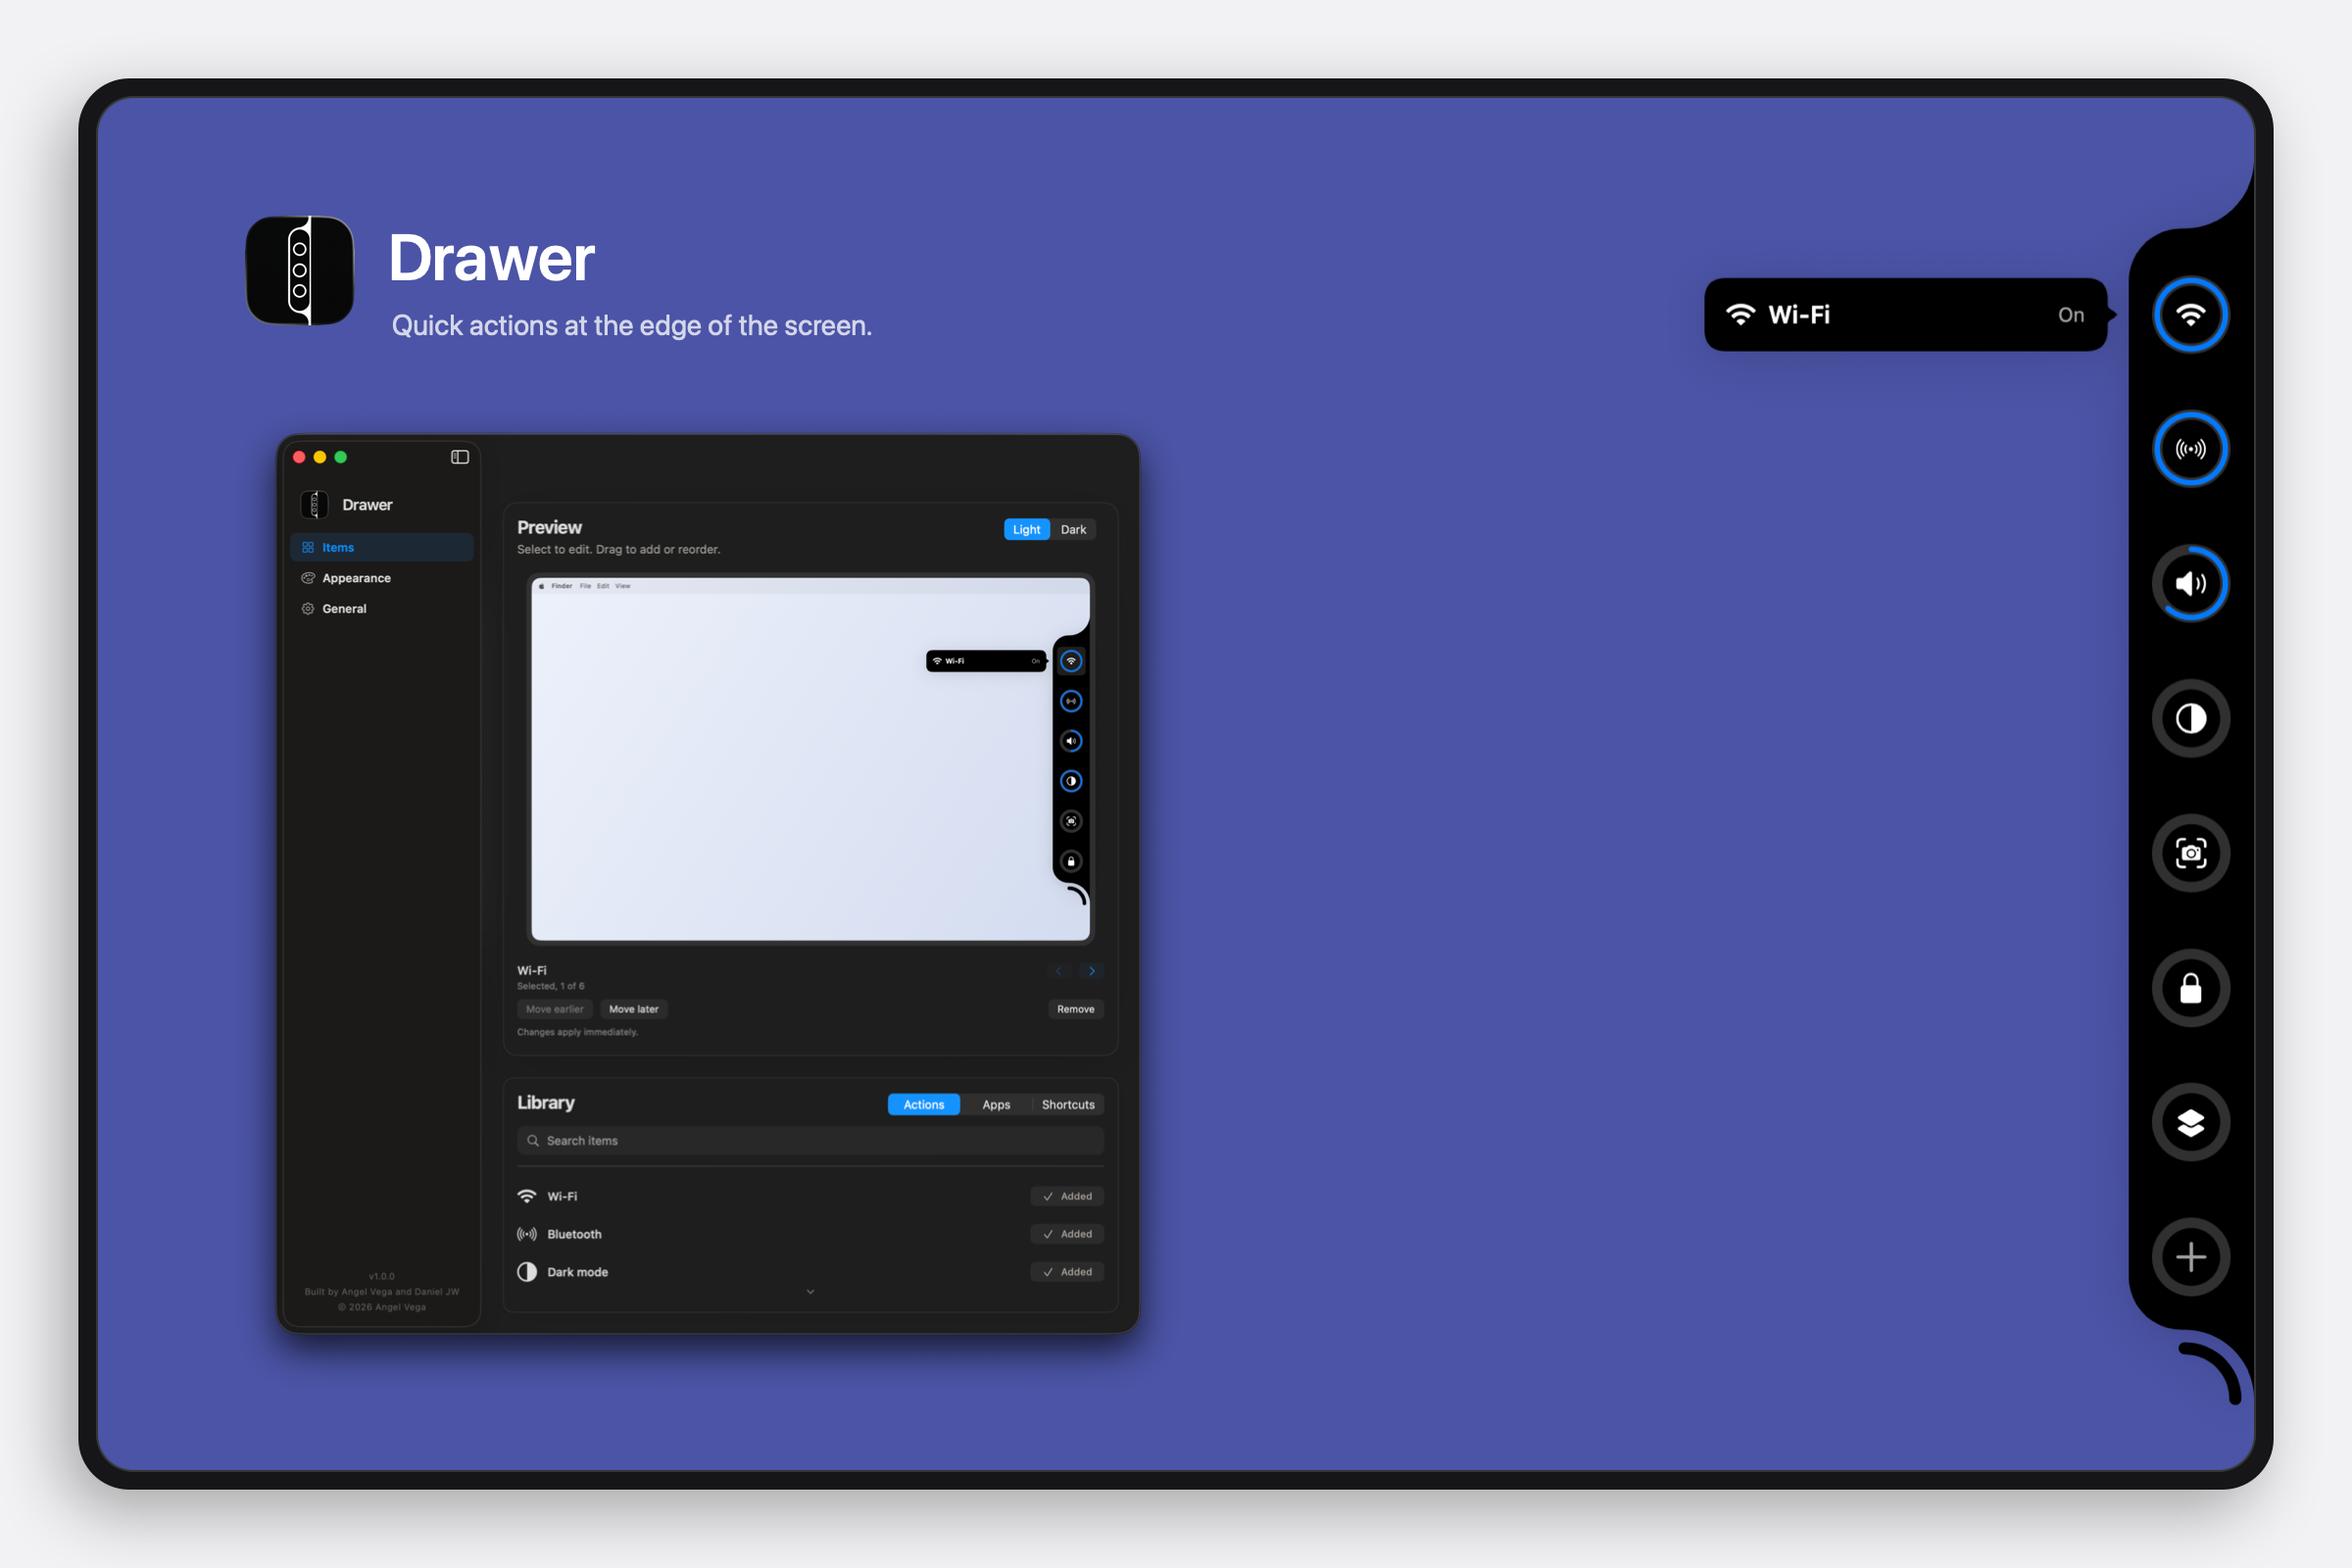
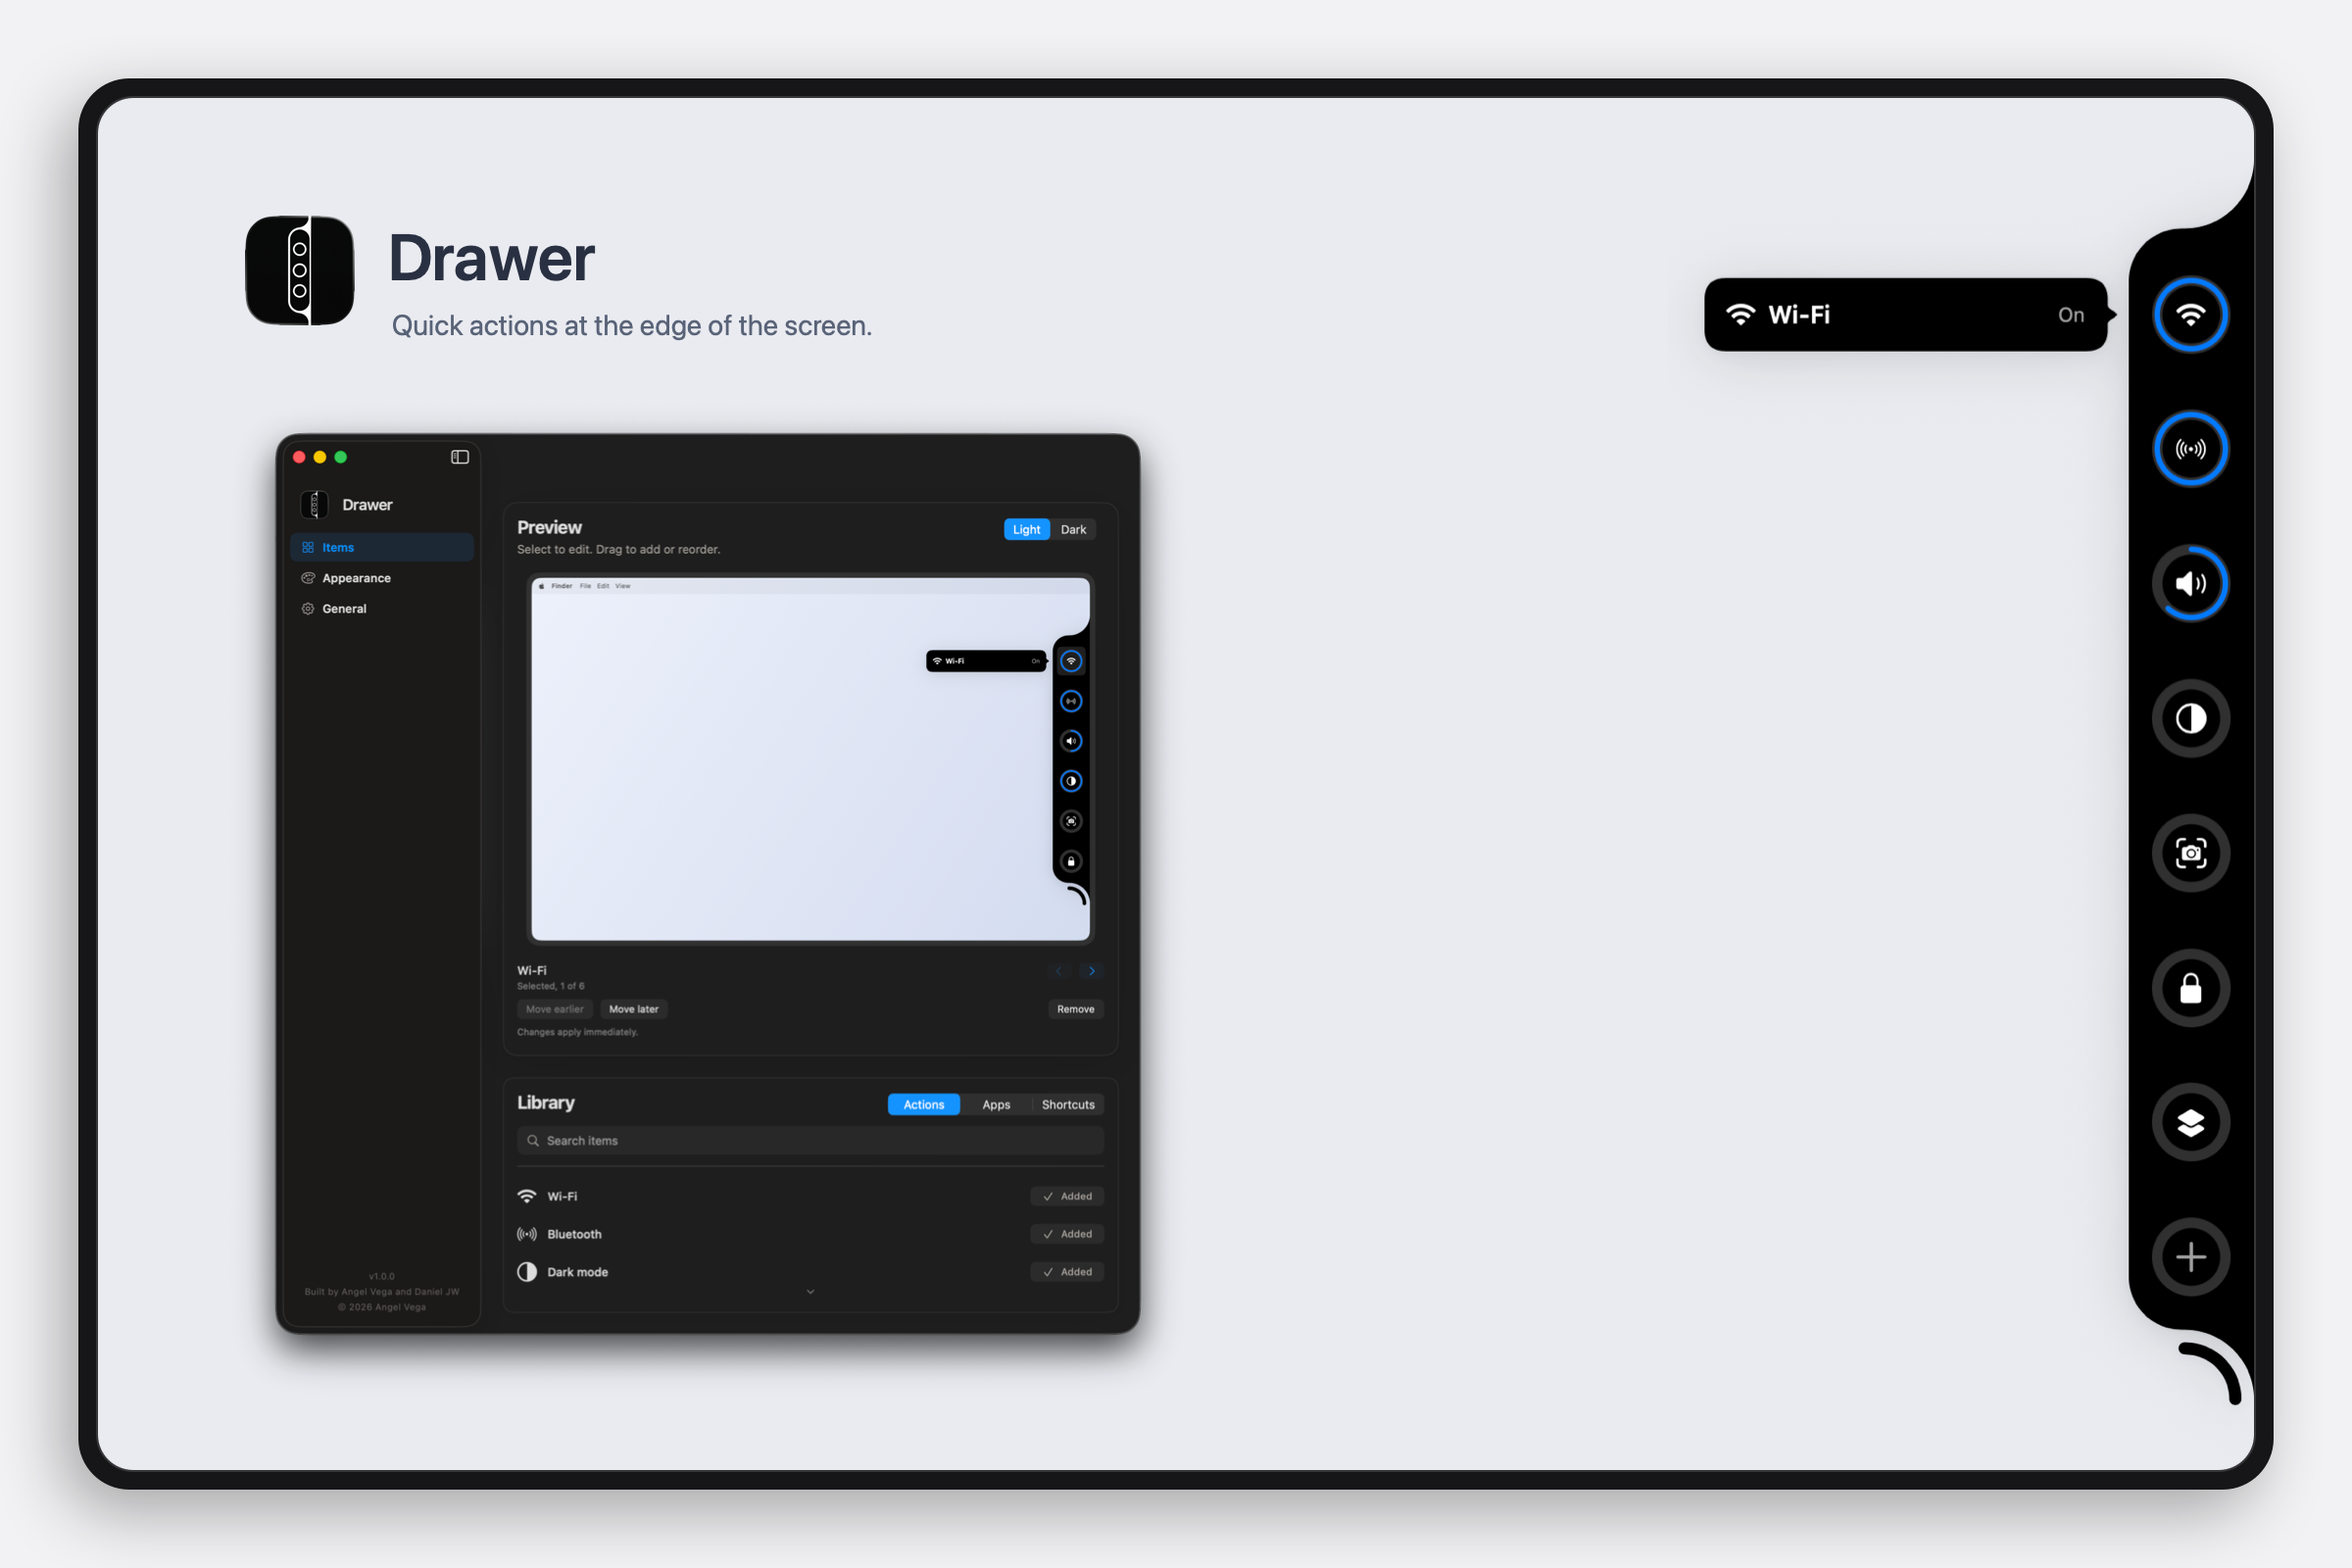
Take the colour out of the screen behind the drawer
The indigo was the loudest thing in every picture, and the only colour in
these shots should be the app's own accent. The screen is a flat neutral
now, near white but not white, so it still reads as a screen against the
paper ground outside the bezel, and the hero's title turned dark to stay
legible on it.

diff --git a/Tools/Screenshots/ArticleImages.swift b/Tools/Screenshots/ArticleImages.swift
@@ -152,13 +152,13 @@ func screen(_ outer: CGRect, canvas: CGSize, radius: CGFloat = 46) -> CGRect {
     NSBezierPath(roundedRect: flip(outer), xRadius: radius, yRadius: radius).fill()
     NSGraphicsContext.restoreGraphicsState()
 
-    // One flat colour on the screen. Not white and not black, both measured:
-    // a near white screen makes the picture read as a blank page with a bar
-    // stuck to it, and a near black one makes the drawer disappear, since the
-    // product and the screen behind it are then the same colour.
+    // One flat neutral on the screen. No colour of its own: the only colour in
+    // these pictures should be the app's own accent, and a coloured wallpaper
+    // was the loudest thing in the frame. Not white either, so the screen
+    // still reads as a screen against the paper ground outside the bezel.
     NSGraphicsContext.saveGraphicsState()
     NSBezierPath(roundedRect: flip(inner), xRadius: radius - 16, yRadius: radius - 16).setClip()
-    NSColor(srgbRed: 0.294, green: 0.329, blue: 0.651, alpha: 1).setFill()
+    NSColor(srgbRed: 0.914, green: 0.922, blue: 0.941, alpha: 1).setFill()
     flip(inner).fill()
     NSGraphicsContext.restoreGraphicsState()
 
@@ -244,10 +244,9 @@ do {
             icon.draw(in: CGRect(x: inner.minX + 150, y: canvas.height - inner.minY - 232, width: 112, height: 112))
         }
         draw("Drawer", at: CGPoint(x: inner.minX + 296, y: inner.minY + 122), canvasHeight: canvas.height,
-             size: 66, weight: .semibold, color: .white)
+             size: 66, weight: .semibold, color: ink)
         draw("Quick actions at the edge of the screen.", at: CGPoint(x: inner.minX + 300, y: inner.minY + 214),
-             canvasHeight: canvas.height, size: 29, weight: .regular,
-             color: NSColor.white.withAlphaComponent(0.76))
+             canvasHeight: canvas.height, size: 29, weight: .regular, color: inkSoft)
     }
     write(image, to: outDirectory.appendingPathComponent("hero.png"))
 }
